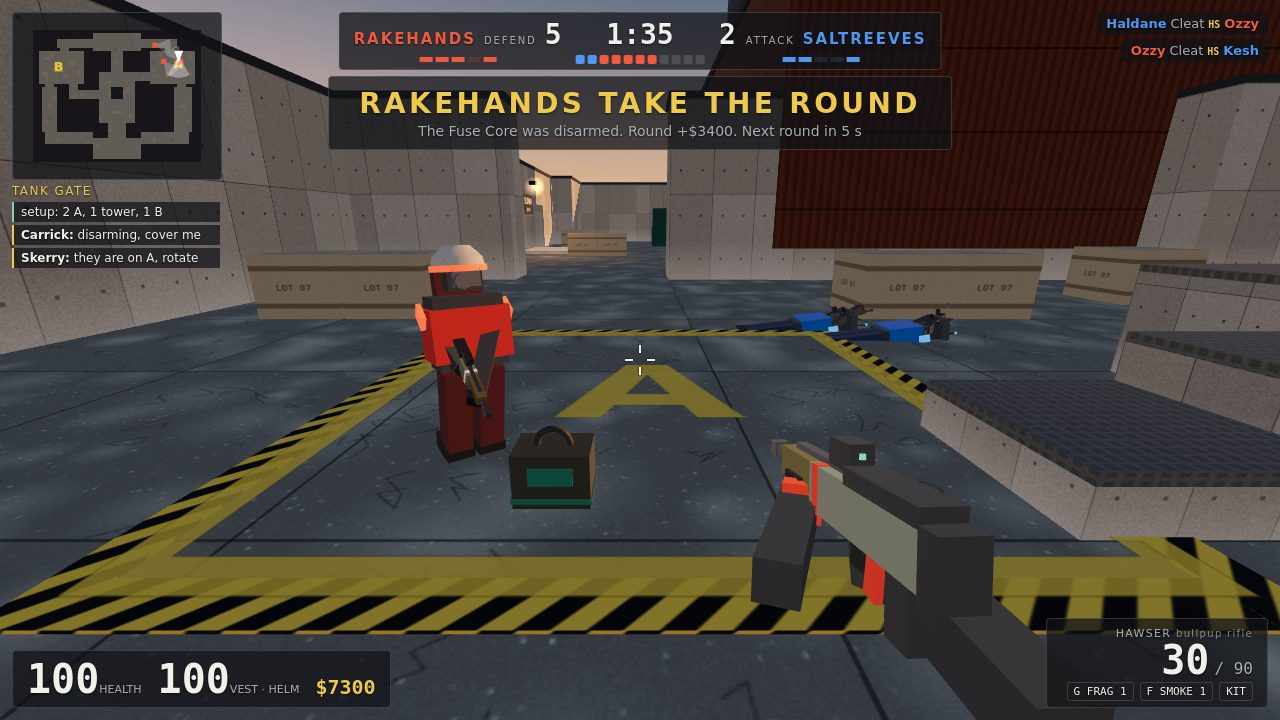
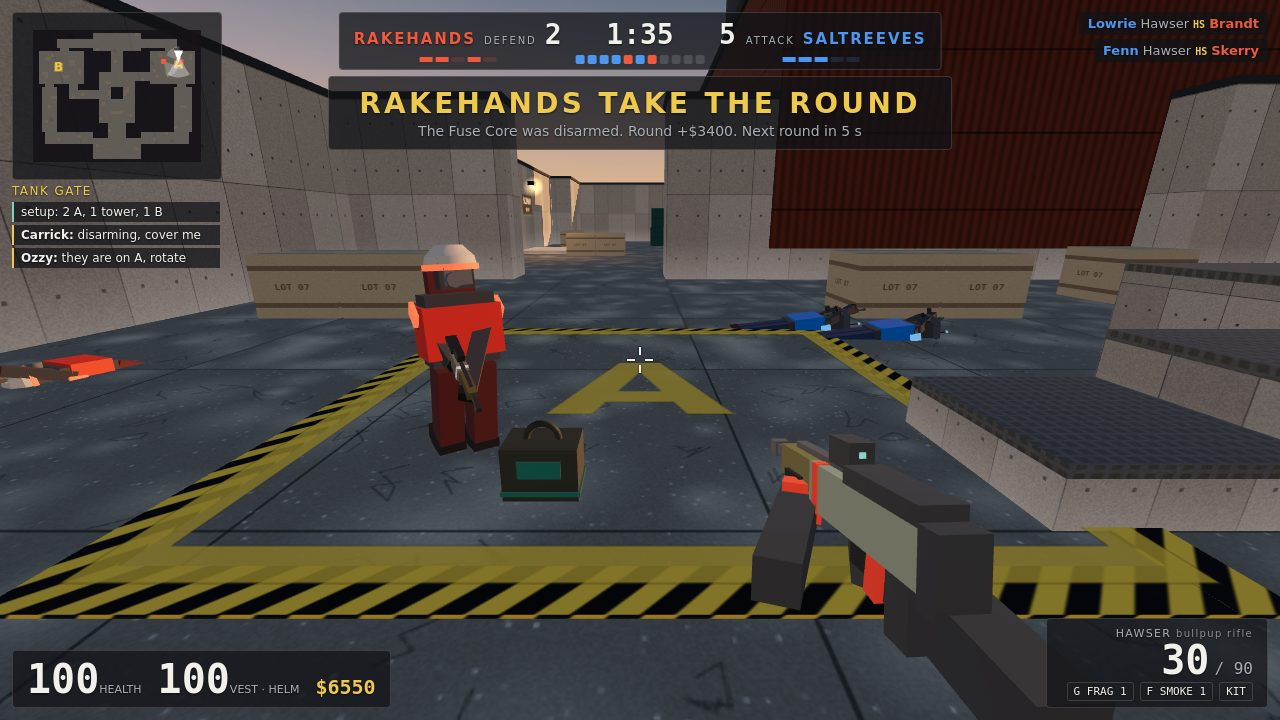
Bots kneel while arming the Fuse Core, as they do while disarming
bots.js: the arm and the finish-the-work lines crouch the worker, so shot 3 shows Carrick
kneeling over the case under the ARMING bar (the case is set 0.8 m ahead of him). Paid for by a
shorter hud.js comment. All-bot balance: attack 32% (seed 1) and 73% (seed 4). Fresh screenshots.

diff --git a/game/src/sim/bots.js b/game/src/sim/bots.js
@@ -35,7 +35,7 @@ export function think(state, a) {
   if (state.round.phase === 'freeze') { cmd.crouch = false; return; }
   if ((state.tick + a.id) % BOT.thinkEvery === 0) perceive(state, a, b);
   if (b.lastSeenTime > -99 && !state.actors[b.lastSeenId].alive) b.lastSeenTime = -99;
-  if (core.worker === a.id && core.progress > 0.6) { cmd.use = true; cmd.crouch = defends; return; }
+  if (core.worker === a.id && core.progress > 0.6) { cmd.use = cmd.crouch = true; return; }
   const w = a.slots[a.active];
   if (!w.mag && !w.reserve) { // dry: the sidearm, else drop the fight rather than strafe unarmed
     if (a.active === 0 && a.slots[1].mag + a.slots[1].reserve) cmd.slot = 1;
@@ -111,7 +111,7 @@ function playObjective(state, a, b) {
   if (state.teams[a.team].side === SIDE.ATTACK) {
     if (core.state === 'carried' && core.carrier === a.id) {
       b.lurk = false; // a lurker with the core joins the push
-      if (siteNear(map, a.pos.x, a.pos.z, 0) && quiet) { cmd.use = true; return true; }
+      if (siteNear(map, a.pos.x, a.pos.z, 0) && quiet) { cmd.use = cmd.crouch = true; return true; }
       if (b.plan === 'hold') { goTo(state, a, map.sites[b.site].x, map.sites[b.site].z); return true; }
       return false;
     }

diff --git a/game/src/ui/hud.js b/game/src/ui/hud.js
@@ -154,7 +154,7 @@ export function createHud(state, camera) {
       el.progress.style.setProperty('--p', pct + '%');
       el['progress-label'].textContent = `${core.state === 'planted' ? 'DISARMING' : 'ARMING'} FUSE CORE ${pct}%${core.state === 'planted' && worker.kit ? '  KIT' : ''}${worker === p ? '' : '  ' + worker.name}`;
     }
-    const live = state.round.phase === 'live' && p.alive && !ours; // the bar alone while our side works the core
+    const live = state.round.phase === 'live' && p.alive && !ours; // the bar alone while our side works
     if (!changed('obj', core.state, live ? core.carrier : -2)) return;
     const attacking = state.teams[p.team].side === SIDE.ATTACK;
     el.objective.textContent = !live ? ''
